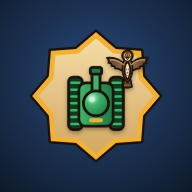
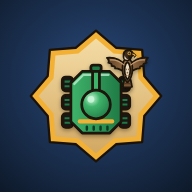
Give the guardians an original armoured car instead of a classic tank
The players' vehicle was a tracked tank with a square turret, close to
the look of older tank games. It is now a desert armoured car of its own:
an eight-sided hull on three wheels a side, a dome turret, a gold band
and an engine grille at the back. Each cannon level shows: a muzzle
brake, then twin guns, then heavy twin guns with a gold crown and corner
spikes. The vector icon and the app icons follow the new design, and the
falcon on the icon now has a falcon's profile instead of an owl's face.

Claude-Session: https://claude.ai/code/session_01VwegwNBjTx7a7zYDTzzN4p

Changed region(s): [[0.3125, 0.3125, 0.6875, 0.7188], [0.625, 0.25, 0.7188, 0.3438]]

diff --git a/js/icons.js b/js/icons.js
@@ -27,9 +27,13 @@
   const barrel = (x, y, w, h, p) => `<rect x="${x}" y="${y}" width="${w}" height="${h}" rx="2.2" fill="${p[2]}" ${O}/><rect x="${x - 1.5}" y="${y - 0.5}" width="${w + 3}" height="6" rx="2" fill="${p[1]}" ${O}/>`;
   const hullDefs = p => lin('hull', [[0, p[2]], [1, p[1]]]) + rad('tur', [[0, p[3]], [0.35, p[2]], [1, p[1]]], 0.35, 0.3, 0.8);
   const VEHICLE = {
-    A: p => treads(8, 12, 12, 46, p) + treads(44, 12, 12, 46, p) +
-      `<rect x="17" y="17" width="30" height="38" rx="6" fill="url(#hull)" ${O}/><rect x="26" y="48" width="12" height="3.5" rx="1.75" fill="${p[4]}"/>` +
-      barrel(28.5, 4, 7, 28, p) + `<circle cx="32" cy="35" r="11" fill="url(#tur)" ${O}/><circle cx="28.5" cy="31.5" r="2.6" fill="${p[3]}" opacity=".75"/>`,
+    // the guardians' armoured car: an eight-sided hull on three wheels a side, with a dome turret
+    A: p => [12, 28, 44].map(y => `<rect x="2.5" y="${y}" width="9" height="12" rx="3" fill="#1C1712" ${O}/><path d="M4.5 ${y + 4}H9.5M4.5 ${y + 8}H9.5" stroke="${p[1]}" stroke-width="1.8"/>` +
+      `<rect x="52.5" y="${y}" width="9" height="12" rx="3" fill="#1C1712" ${O}/><path d="M54.5 ${y + 4}H59.5M54.5 ${y + 8}H59.5" stroke="${p[1]}" stroke-width="1.8"/>`).join('') +
+      `<path d="M20 7H44L54 17V51L44 61H20L10 51V17Z" fill="url(#hull)" ${O}/><path d="M13 18L21 10H43" stroke="${p[3]}" stroke-width="2" fill="none" stroke-linecap="round" opacity=".7"/>` +
+      `<rect x="16" y="49" width="32" height="3.6" rx="1.8" fill="${p[4]}"/><path d="M24 55.5V58M30 55.5V58M36 55.5V58M42 55.5V58" stroke="${p[0]}" stroke-width="2.2" stroke-linecap="round"/>` +
+      `<rect x="29" y="2" width="6" height="30" rx="2" fill="${p[2]}" ${O}/><rect x="27.5" y="1.5" width="9" height="5.5" rx="2" fill="${p[1]}" ${O}/>` +
+      `<circle cx="32" cy="36" r="12.5" fill="url(#tur)" ${O}/><circle cx="27.5" cy="31.5" r="3" fill="${p[3]}" opacity=".85"/>`,
     jeep: p => wheel(11, 11, 9, 14, p) + wheel(44, 11, 9, 14, p) + wheel(11, 40, 9, 14, p) + wheel(44, 40, 9, 14, p) +
       `<rect x="18" y="8" width="28" height="50" rx="9" fill="url(#hull)" ${O}/><rect x="21" y="11" width="22" height="11" rx="5" fill="${p[2]}"/>` +
       `<rect x="20.5" y="24" width="23" height="5" rx="2" fill="#9CC7DB" ${O}/><rect x="18" y="38" width="28" height="4" fill="${p[4]}"/>` +
@@ -118,12 +122,13 @@
       `<path d="M27.5 50L25.5 60Q32 63 38.5 60L36.5 50Z" fill="#7A5634"/>` +
       `<path d="M32 18Q41 22 38.5 41Q36.5 50 32 54Q27.5 50 25.5 41Q23 22 32 18Z" fill="#8E6640"/>` +
       `<path d="M32 25Q37 29 35.6 41Q34.4 47 32 50Q29.6 47 28.4 41Q27 29 32 25Z" fill="#EADBBF"/>` +
-      `<circle cx="32" cy="16" r="7.5" fill="#6B4A2E"/></g>` +
+      `<path d="M26.5 18Q25.5 9.5 31.5 8.2Q37.5 7.8 39.5 12.5L41 14.5Q39 17 37.6 17.2Q36.5 22 32 22.8Q27.5 22.5 26.5 18Z" fill="#3E2A1A"/></g>` +
       `<path d="M28 59.5L36 59.5M27 55.5H37" stroke="#4F3520" stroke-width="1.6"/>` +
       `<path d="M30 35.5h.1M34 35.5h.1M32 40h.1M30.5 44h.1M33.5 44h.1" stroke="#8E6640" stroke-width="2.4" stroke-linecap="round"/>` +
-      `<path d="M27 18Q32 22.5 37 18Q36 22.5 32 23.5Q28 22.5 27 18Z" fill="#EADBBF"/>` +
-      `<circle cx="29" cy="15" r="2.1" fill="#F2B134"/><circle cx="35" cy="15" r="2.1" fill="#F2B134"/><circle cx="29.3" cy="15" r="1" fill="${INK}"/><circle cx="34.7" cy="15" r="1" fill="${INK}"/>` +
-      `<path d="M30.3 18.5Q32 25 33.7 18.5Z" fill="#F2B134" stroke="${INK}" stroke-width="1.4" stroke-linejoin="round"/>` +
+      `<path d="M28.2 15.5Q29 20.5 33.5 21.6Q29.5 22.6 27.6 19.5Z" fill="#EADBBF"/>` +
+      `<path d="M34.6 15.6Q34 18.6 35.4 21" stroke="#1A1208" stroke-width="2.3" fill="none" stroke-linecap="round"/>` +
+      `<circle cx="34.6" cy="12.8" r="2" fill="${INK}" stroke="#F2B134" stroke-width="1.2"/><circle cx="34.1" cy="12.3" r=".6" fill="#FFFFFF"/>` +
+      `<path d="M38.6 11.8Q42.6 12.6 44 15.4Q43.6 17.6 41.8 18.4Q42.2 16.4 40.6 15.6L38.4 15.8Z" fill="#F2B134" stroke="${INK}" stroke-width="1.3" stroke-linejoin="round"/>` +
       `<path d="M8 22Q18 21 27 29M56 22Q46 21 37 29" stroke="#C49A6C" stroke-width="1.8" fill="none" stroke-linecap="round"/>`,
       lin('wg', [[0, '#5A3D24'], [1, '#9C7248']]) + lin('wg2', [[0, '#9C7248'], [1, '#5A3D24']])),
 

diff --git a/js/sprites.js b/js/sprites.js
@@ -240,33 +240,54 @@
     const wheel = (x, y, h) => { for (let j = 0; j < h; j++) { px(x, y + j, (y + j + frame) % 2 ? 1 : 2); px(x + 1, y + j, 1); } };
 
     switch (design) {
-      case 'A':
-        tread(1, 3, 2, 15, true); tread(12, 3, 2, 15, false);
-        hull(4, 4, 11, 13); turret(5, 6, 10, 11, true);
-        px(6, 7, 4); barrel(7, 0, 6); px(7, 12, 5); px(8, 12, 5);
+      // The guardians ride armoured cars of their own: an eight-sided hull on three wheels a side,
+      // a dome turret, and more guns with every cannon level
+      case 'A': case 'B': case 'C': case 'D': {
+        const lvl = 'ABCD'.indexOf(design);
+        for (const wy of [3, 7, 11]) {
+          for (const wx of [0, 14]) {
+            for (let j = 0; j < 3; j++) for (let i = 0; i < 2; i++) {
+              const outer = wx === 0 ? i === 0 : i === 1;
+              px(wx + i, wy + j, j === 1 ? ((frame + (outer ? 1 : 0)) % 2 ? 3 : 1) : '#1C1712');
+            }
+          }
+        }
+        const span = { 2: [4, 11], 3: [3, 12], 13: [3, 12], 14: [4, 11] };
+        for (let y = 2; y <= 14; y++) {
+          const [x0, x1] = span[y] || [2, 13];
+          for (let x = x0; x <= x1; x++) px(x, y, x === x1 || y === 14 || (y === 13 && x === x1 - 1) ? 1 : x === x0 || y === 2 || (y === 3 && x === x0 + 1) ? 3 : 2);
+        }
+        // a gold band and the engine grille at the back
+        for (let x = 4; x <= 11; x++) px(x, 12, 5);
+        for (const x of [5, 7, 9]) { px(x, 13, 1); px(x + 1, 13, 2); }
+        if (lvl >= 1) for (const y of [6, 10]) { px(1, y, 2); px(14, y, 1); }
+        if (lvl === 3) {
+          for (const [x, y] of [[2, 3], [3, 2], [13, 3], [12, 2]]) px(x, y, 5);
+          for (let x = 3; x <= 12; x++) px(x, 5, x === 3 ? 3 : 1);
+        }
+        // guns: one, one with a muzzle brake, then two, then two heavy ones; drawn under the dome
+        const gun = (x, top, brake) => {
+          for (let y = top; y <= 8; y++) { px(x, y, 3); px(x + 1, y, 1); }
+          if (brake) for (let i = -1; i <= 2; i++) { px(x + i, top, 1); px(x + i, top + 1, i === -1 ? 3 : i === 2 ? 1 : 2); }
+          else { px(x, top, 4); px(x + 1, top, 3); }
+        };
+        if (lvl <= 1) gun(7, 0, lvl === 1);
+        else if (lvl === 2) { gun(5, 1, false); gun(9, 1, false); }
+        else { gun(5, 0, true); gun(9, 0, true); }
+        // the dome, lit from the top left; the heaviest car wears a gold crown
+        const r = lvl >= 2 ? 3.7 : 3.2;
+        for (let y = 4; y <= 13; y++) {
+          for (let x = 3; x <= 12; x++) {
+            const dx = x + 0.5 - 8, dy = y + 0.5 - 9, d = Math.hypot(dx, dy);
+            if (d > r) continue;
+            let c = d > r - 0.85 ? (dx < 0 || dy < 0 ? 2 : 1) : dx > 0.6 && dy > 0.6 ? 2 : 3;
+            if (lvl === 3 && d > r - 0.85 && dy < 0.5) c = 5;
+            px(x, y, c);
+          }
+        }
+        px(6, 7, 4); px(7, 7, 4); px(6, 8, 4);
         break;
-      case 'B':
-        tread(2, 2, 2, 15, true); tread(12, 2, 2, 15, false);
-        hull(4, 5, 11, 14); rect(5, 3, 6, 2, 2);
-        for (let x = 5; x <= 10; x++) px(x, 3, 3);
-        turret(6, 7, 9, 11, true); px(6, 8, 4); barrel(7, 0, 7); px(7, 13, 5); px(8, 13, 5);
-        break;
-      case 'C':
-        tread(1, 3, 3, 15, true); tread(12, 3, 3, 15, false);
-        hull(4, 5, 11, 14); turret(4, 6, 11, 13, true);
-        px(5, 7, 4); px(6, 7, 4); px(5, 8, 4); barrel(7, 0, 6);
-        for (const y of [1, 2]) { px(6, y, 1); px(7, y, 3); px(8, y, 2); px(9, y, 1); }
-        px(9, 12, 5); px(10, 12, 5);
-        break;
-      case 'D':
-        tread(0, 4, 2, 15, true); tread(12, 4, 2, 15, false);
-        hull(4, 3, 11, 15);
-        for (let x = 5; x <= 10; x++) { px(x, 5, 1); px(x, 14, 1); }
-        turret(5, 6, 10, 12, false);
-        px(5, 6, 5); px(10, 6, 5); px(5, 12, 5); px(10, 12, 5); px(6, 7, 4); px(7, 7, 4);
-        for (let y = 0; y <= 6; y++) { px(6, y, 3); px(9, y, 2); }
-        px(6, 0, 1); px(9, 0, 1);
-        break;
+      }
       case 'jeep':
         wheel(3, 3, 4); wheel(11, 3, 4); wheel(3, 10, 4); wheel(11, 10, 4);
         rect(5, 2, 6, 13, 2);
